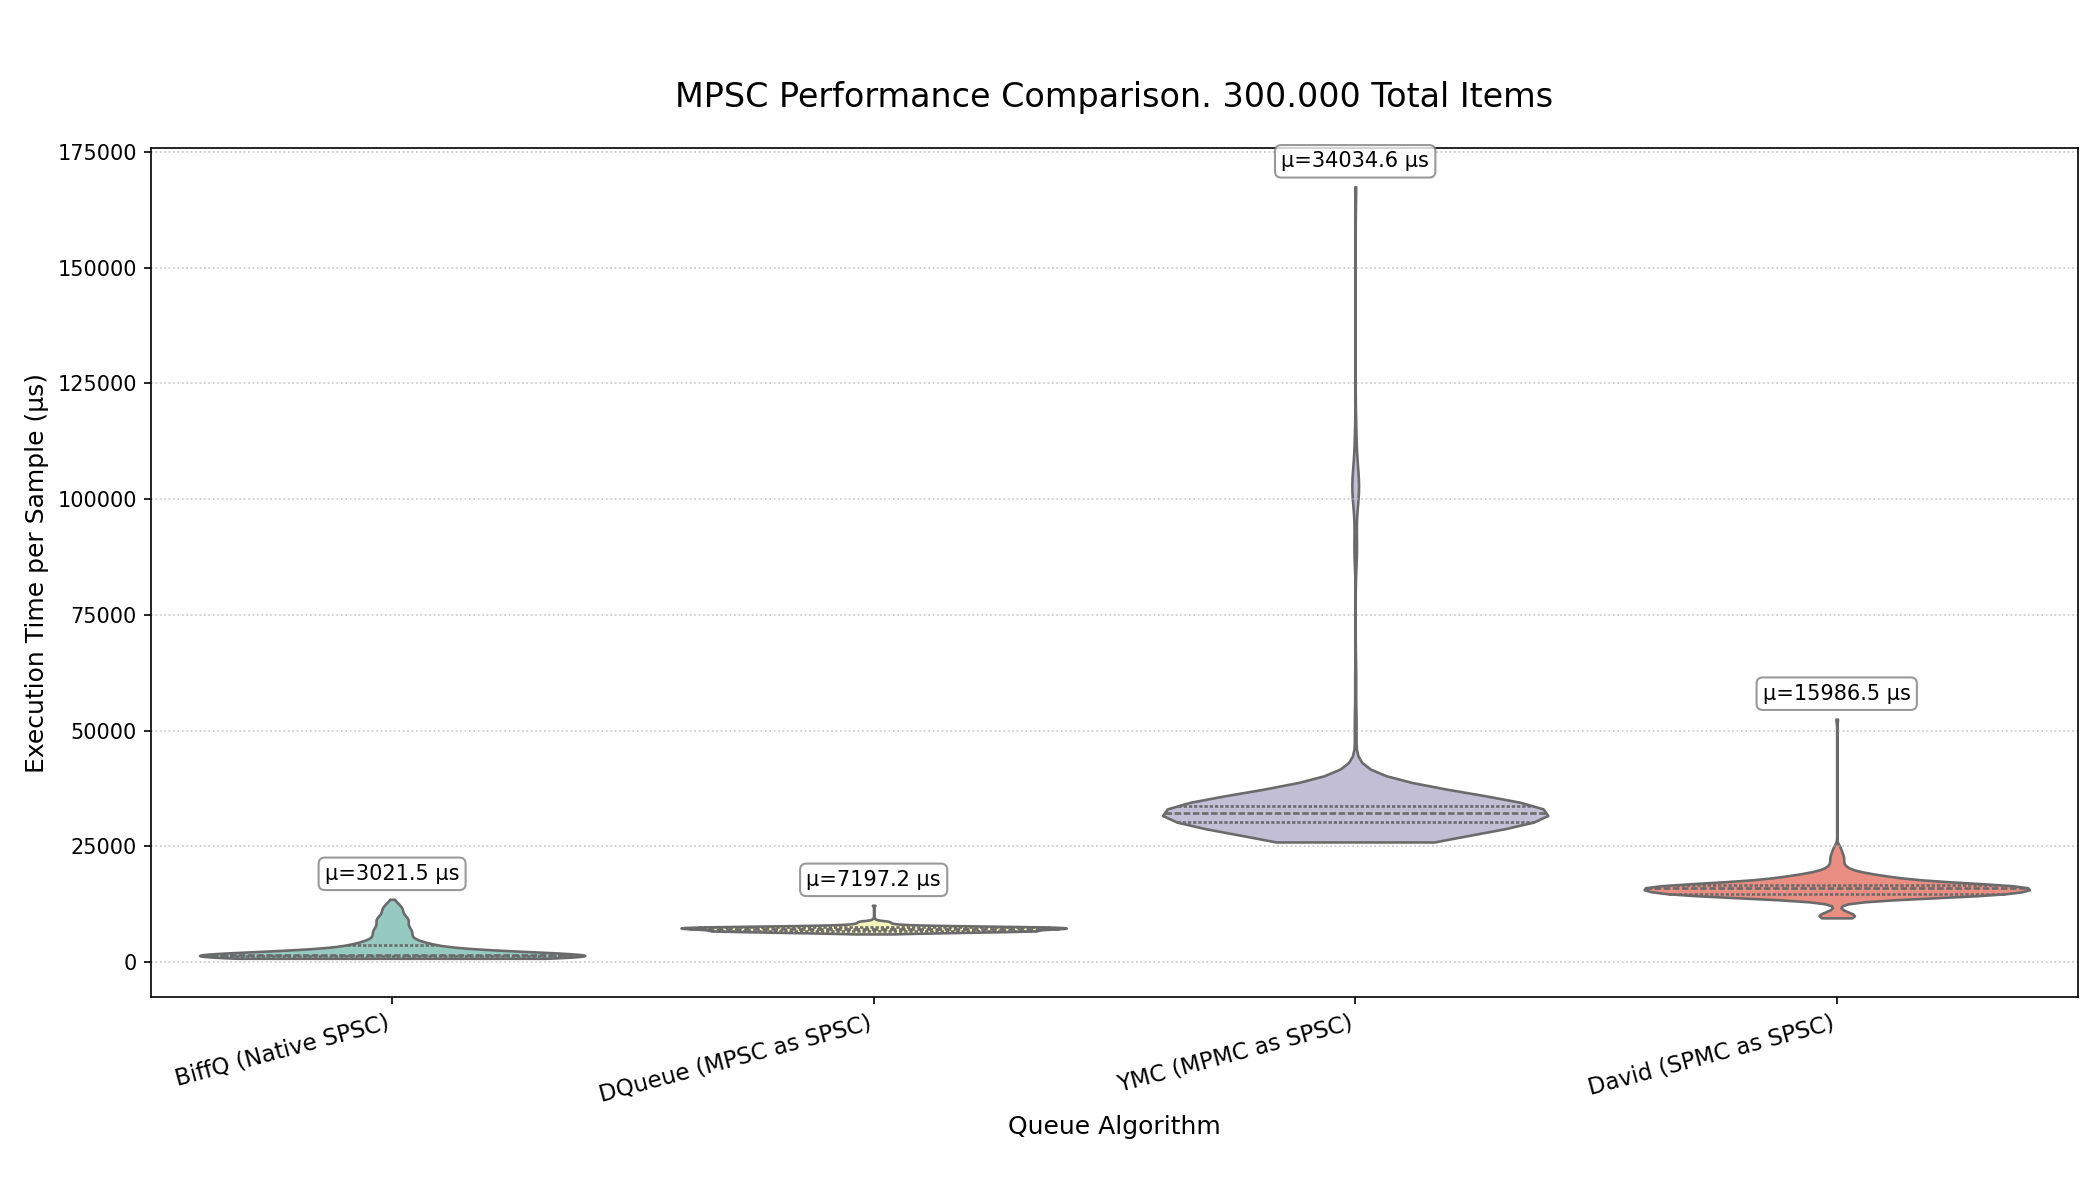
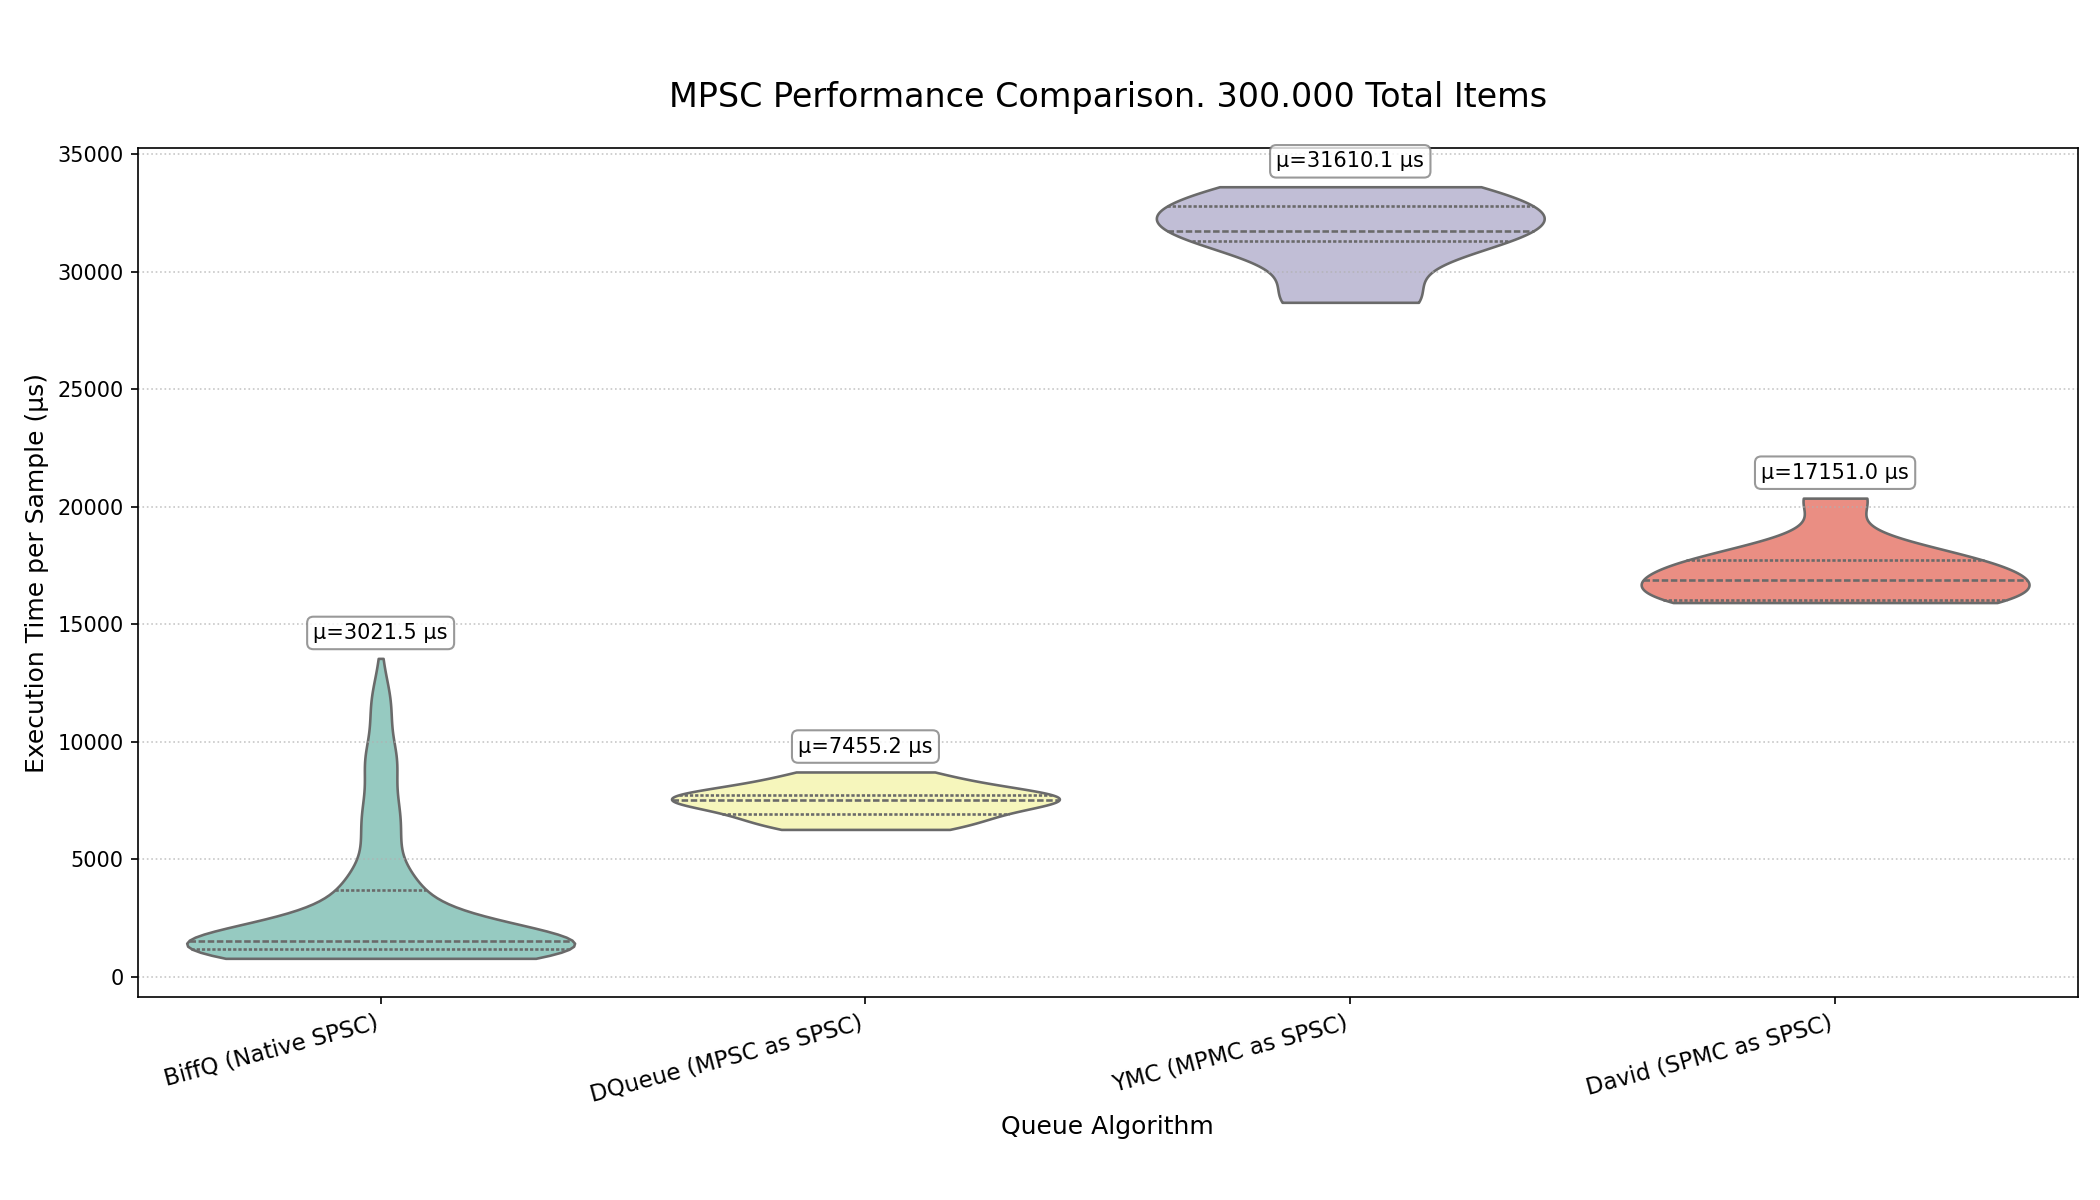
change best in spsc bench to use correct queue

diff --git a/queues/benches/best_in_spsc_bench.rs b/queues/benches/best_in_spsc_bench.rs
@@ -11,14 +11,17 @@ use std::time::Duration;
 
 use queues::{
     spmc::{DavidQueue, EnqueuerState},
-    BiffqQueue, DQueue, SpscQueue, YangCrummeyQueue,
+    BlqQueue, DQueue, SpscQueue, YangCrummeyQueue,
 };
 use std::sync::atomic::{AtomicU32, Ordering};
+
+use queues::spsc::blq::K_CACHE_LINE_SLOTS as BLQ_K_SLOTS;
 
 const PERFORMANCE_TEST: bool = false;
 const RING_CAP: usize = 32_768;
 const ITERS: usize = 300_000;
 const MAX_BENCH_SPIN_RETRY_ATTEMPTS: usize = 1_000_000_000;
+const BATCH_SIZE: usize = 32;
 
 trait BenchSpscQueue<T: Send>: Send + Sync + 'static {
     fn bench_push(&self, item: T) -> Result<(), ()>;
@@ -45,12 +48,12 @@ unsafe fn unmap_shared(ptr: *mut u8, len: usize) {
     assert_eq!(ret, 0, "munmap failed: {}", std::io::Error::last_os_error());
 }
 
-impl<T: Copy + Send + Default + 'static> BenchSpscQueue<T> for BiffqQueue<T> {
+impl<T: Send + 'static> BenchSpscQueue<T> for BlqQueue<T> {
     fn bench_push(&self, item: T) -> Result<(), ()> {
-        SpscQueue::push(self, item).map_err(|_e| ())
+        SpscQueue::push(self, item).map_err(|_| ())
     }
     fn bench_pop(&self) -> Result<T, ()> {
-        SpscQueue::pop(self).map_err(|_e| ())
+        SpscQueue::pop(self).map_err(|_| ())
     }
 }
 
@@ -89,23 +92,32 @@ impl<T: Send + Clone + 'static> BenchSpscQueue<T> for DavidQueueWrapper<T> {
     }
 }
 
-fn bench_biffq_native(c: &mut Criterion) {
-    c.bench_function("BiffQ (Native SPSC)", |b| {
+fn bench_blq_native(c: &mut Criterion) {
+    c.bench_function("BLQ (Native SPSC)", |b| {
         b.iter_custom(|_iters| {
-            assert!(RING_CAP.is_power_of_two());
-            assert_eq!(
-                RING_CAP % 32,
-                0,
-                "RING_CAP must be a multiple of BIFFQ H_PARTITION_SIZE (32)"
-            );
-            assert!(
-                RING_CAP >= 2 * 32,
-                "RING_CAP must be >= 2 * BIFFQ H_PARTITION_SIZE (64)"
-            );
+            let current_ring_cap = if RING_CAP <= BLQ_K_SLOTS {
+                let mut min_valid_cap = (BLQ_K_SLOTS + 1).next_power_of_two();
+                if min_valid_cap <= BLQ_K_SLOTS {
+                    min_valid_cap = (BLQ_K_SLOTS + 1).next_power_of_two();
+                    if min_valid_cap == 0 {
+                        min_valid_cap = 1 << (BLQ_K_SLOTS.leading_zeros() as usize + 1);
+                    }
+                }
+                if min_valid_cap < 16 {
+                    16
+                } else {
+                    min_valid_cap
+                }
+            } else {
+                RING_CAP.next_power_of_two()
+            };
 
-            let bytes = BiffqQueue::<usize>::shared_size(RING_CAP);
+            assert!(current_ring_cap.is_power_of_two());
+            assert!(current_ring_cap > BLQ_K_SLOTS);
+
+            let bytes = BlqQueue::<usize>::shared_size(current_ring_cap);
             let shm_ptr = unsafe { map_shared(bytes) };
-            let q = unsafe { BiffqQueue::init_in_shared(shm_ptr, RING_CAP) };
+            let q = unsafe { BlqQueue::init_in_shared(shm_ptr, current_ring_cap) };
 
             let dur = fork_and_run(q);
 
@@ -212,6 +224,9 @@ where
     let sync_atomic_flag = unsafe { &*(sync_shm as *const AtomicU32) };
     sync_atomic_flag.store(0, Ordering::Relaxed);
 
+    let queue_type_name = std::any::type_name::<Q>();
+    let is_blq = queue_type_name.contains("BlqQueue");
+
     match unsafe { fork() }.expect("fork failed") {
         ForkResult::Child => {
             sync_atomic_flag.store(1, Ordering::Release);
@@ -219,24 +234,53 @@ where
                 std::hint::spin_loop();
             }
 
-            let mut push_attempts = 0;
-            for i in 0..ITERS {
-                while q.bench_push(i).is_err() {
-                    push_attempts += 1;
-                    if push_attempts > MAX_BENCH_SPIN_RETRY_ATTEMPTS {
-                        panic!("Producer exceeded max spin retry attempts for push");
-                    }
-                    std::hint::spin_loop();
-                }
-            }
+            if is_blq {
+                // BLQ batched producer
+                let blq_queue = unsafe { &*(q as *const Q as *const BlqQueue<usize>) };
+                let mut i = 0;
+                let mut push_attempts = 0;
 
-            if let Some(biffq_queue) = (q as &dyn std::any::Any).downcast_ref::<BiffqQueue<usize>>()
-            {
-                for _attempt in 0..1000 {
-                    if biffq_queue.flush_producer_buffer().is_ok() {
-                        break;
+                while i < ITERS {
+                    let remaining = ITERS - i;
+                    let batch_size = remaining.min(BATCH_SIZE);
+
+                    let space = blq_queue.blq_enq_space(batch_size);
+                    if space == 0 {
+                        push_attempts += 1;
+                        if push_attempts > MAX_BENCH_SPIN_RETRY_ATTEMPTS {
+                            panic!("BLQ Producer exceeded max spin retry attempts");
+                        }
+                        std::hint::spin_loop();
+                        continue;
                     }
-                    std::hint::spin_loop();
+
+                    let to_push = space.min(batch_size);
+                    let mut pushed = 0;
+                    for j in 0..to_push {
+                        if blq_queue.blq_enq_local(i + j).is_ok() {
+                            pushed += 1;
+                        } else {
+                            break;
+                        }
+                    }
+
+                    if pushed > 0 {
+                        blq_queue.blq_enq_publish();
+                        i += pushed;
+                        push_attempts = 0;
+                    }
+                }
+            } else {
+                // Standard producer for other queues
+                let mut push_attempts = 0;
+                for i in 0..ITERS {
+                    while q.bench_push(i).is_err() {
+                        push_attempts += 1;
+                        if push_attempts > MAX_BENCH_SPIN_RETRY_ATTEMPTS {
+                            panic!("Producer exceeded max spin retry attempts for push");
+                        }
+                        std::hint::spin_loop();
+                    }
                 }
             }
 
@@ -253,23 +297,68 @@ where
             let start_time = std::time::Instant::now();
             let mut consumed_count = 0;
             let mut pop_spin_attempts = 0;
+            let mut consecutive_failures = 0;
 
-            while consumed_count < ITERS {
-                let producer_done = sync_atomic_flag.load(Ordering::Acquire) == 3;
+            if is_blq {
+                // BLQ batched consumer
+                let blq_queue = unsafe { &*(q as *const Q as *const BlqQueue<usize>) };
 
-                if let Ok(_item) = q.bench_pop() {
-                    consumed_count += 1;
-                    pop_spin_attempts = 0;
-                } else {
-                    pop_spin_attempts += 1;
+                while consumed_count < ITERS {
+                    let producer_done = sync_atomic_flag.load(Ordering::Acquire) == 3;
+                    let remaining = ITERS - consumed_count;
+                    let batch_size = remaining.min(BATCH_SIZE);
 
-                    if pop_spin_attempts > MAX_BENCH_SPIN_RETRY_ATTEMPTS && !producer_done {
-                        panic!(
-                            "Consumer exceeded max spin retry attempts for pop (producer not done)"
-                        );
+                    let available = blq_queue.blq_deq_space(batch_size);
+                    if available == 0 {
+                        pop_spin_attempts += 1;
+                        consecutive_failures += 1;
+
+                        if producer_done && consecutive_failures > 1000 {
+                            break;
+                        }
+
+                        if pop_spin_attempts > MAX_BENCH_SPIN_RETRY_ATTEMPTS && !producer_done {
+                            panic!("BLQ Consumer exceeded max spin retry attempts");
+                        }
+
+                        std::hint::spin_loop();
+                        continue;
                     }
 
-                    std::hint::spin_loop();
+                    let to_pop = available.min(batch_size);
+                    let mut popped = 0;
+                    for _ in 0..to_pop {
+                        if blq_queue.blq_deq_local().is_ok() {
+                            popped += 1;
+                        } else {
+                            break;
+                        }
+                    }
+
+                    if popped > 0 {
+                        blq_queue.blq_deq_publish();
+                        consumed_count += popped;
+                        pop_spin_attempts = 0;
+                        consecutive_failures = 0;
+                    }
+                }
+            } else {
+                // Standard consumer for other queues
+                while consumed_count < ITERS {
+                    let producer_done = sync_atomic_flag.load(Ordering::Acquire) == 3;
+
+                    if let Ok(_item) = q.bench_pop() {
+                        consumed_count += 1;
+                        pop_spin_attempts = 0;
+                    } else {
+                        pop_spin_attempts += 1;
+
+                        if pop_spin_attempts > MAX_BENCH_SPIN_RETRY_ATTEMPTS && !producer_done {
+                            panic!("Consumer exceeded max spin retry attempts for pop (producer not done)");
+                        }
+
+                        std::hint::spin_loop();
+                    }
                 }
             }
 
@@ -300,15 +389,15 @@ where
 fn custom_criterion() -> Criterion {
     Criterion::default()
         .warm_up_time(Duration::from_secs(1))
-        .measurement_time(Duration::from_secs(4200))
-        .sample_size(500)
+        .measurement_time(Duration::from_secs(15))
+        .sample_size(10)
 }
 
 criterion_group! {
     name = benches;
     config = custom_criterion();
     targets =
-        bench_biffq_native,
+        bench_blq_native,
         bench_ymc_as_spsc,
         bench_dqueue_as_spsc,
         bench_david_as_spsc,
